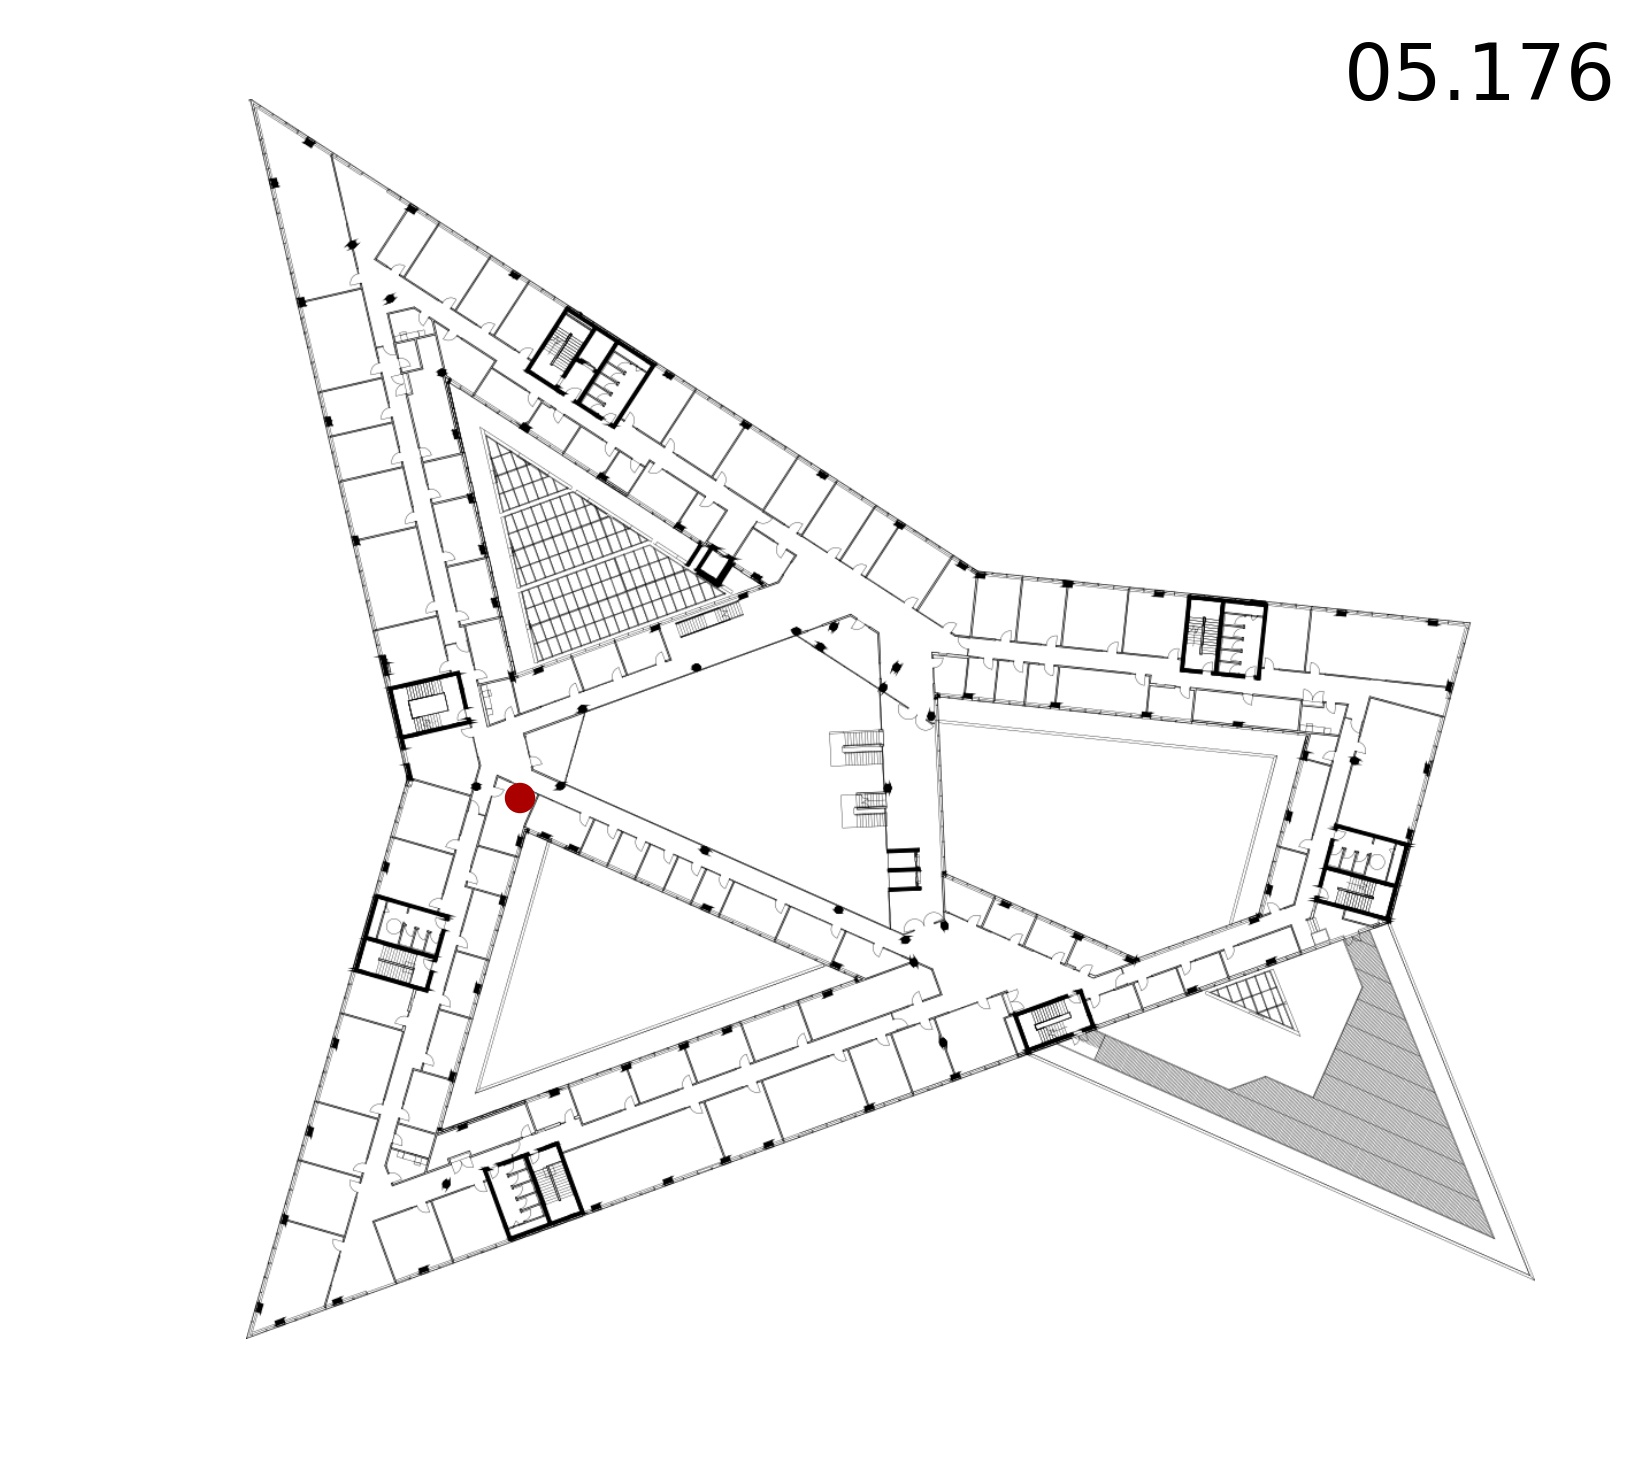
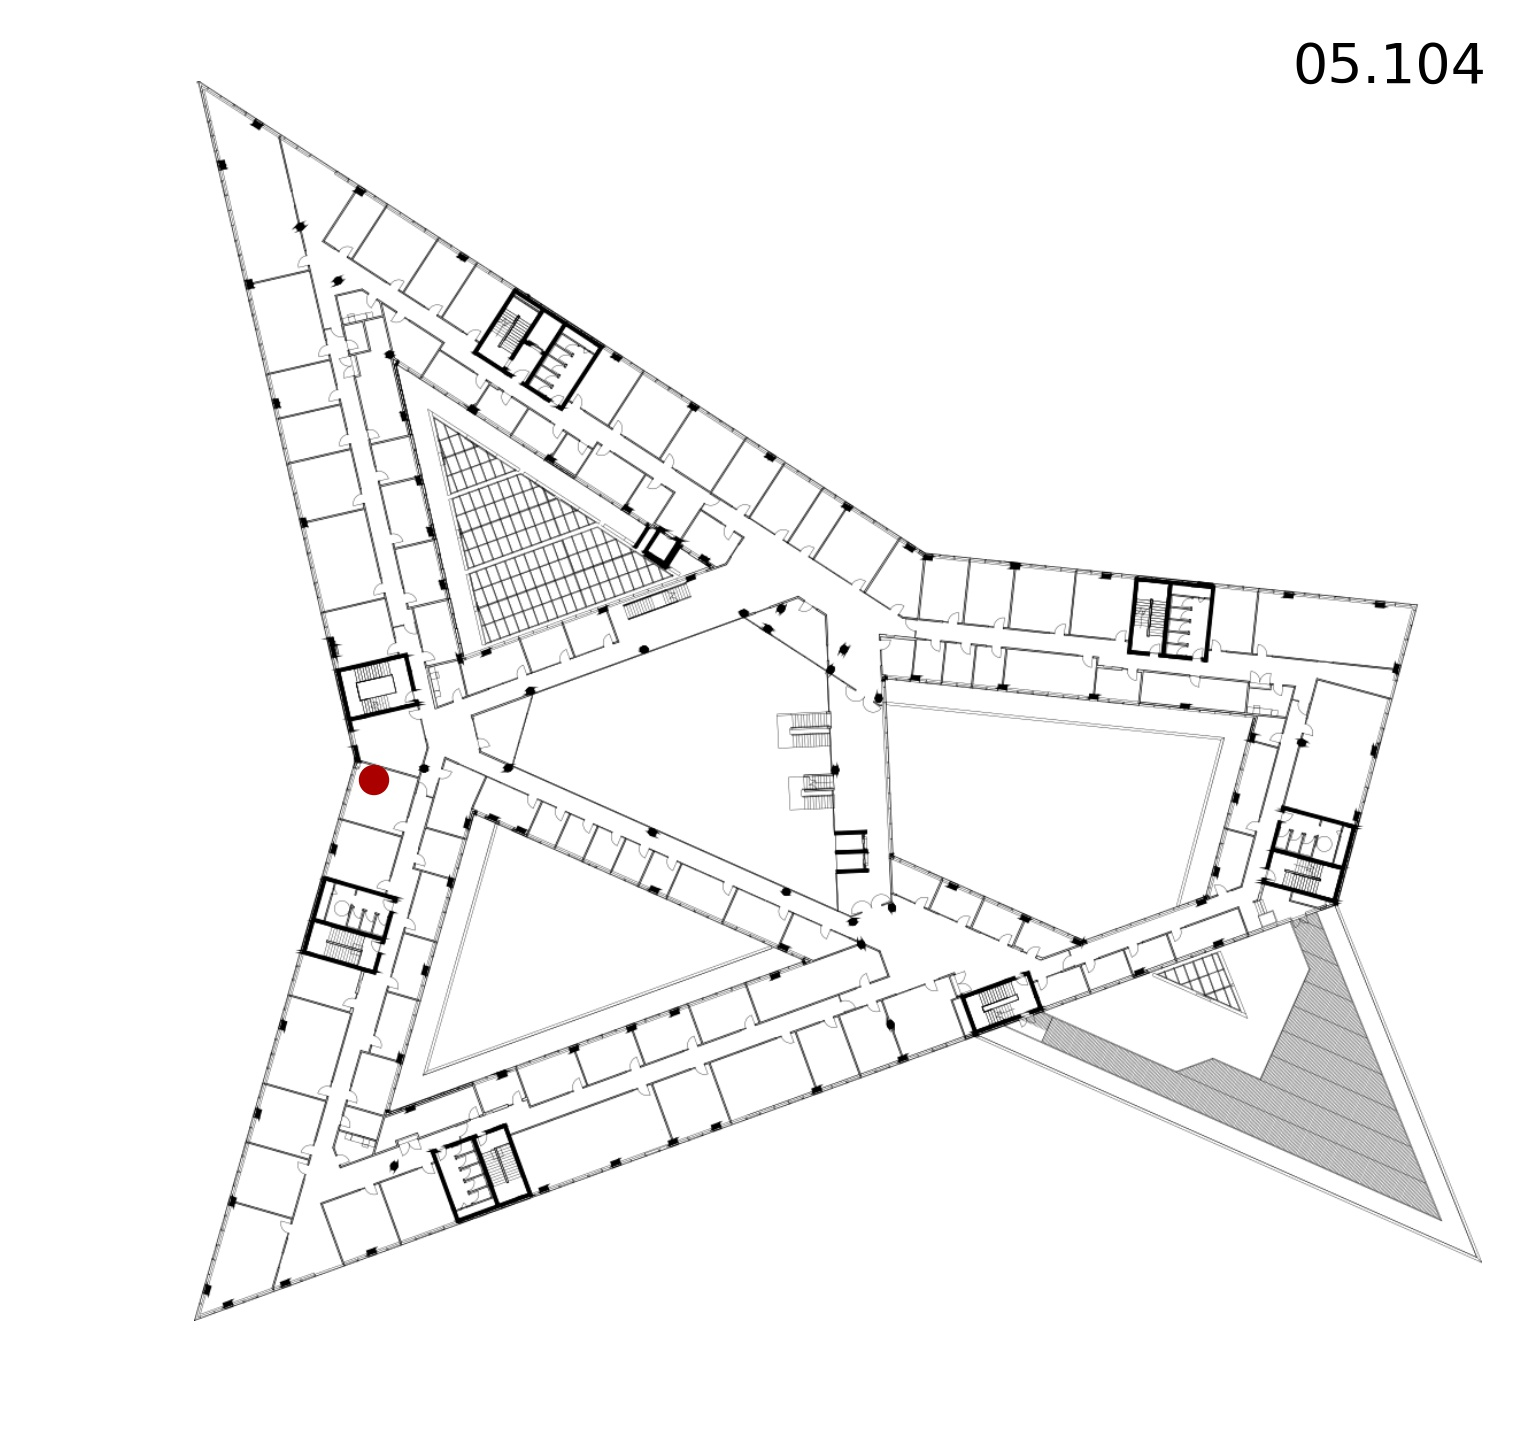
Adding features
Concatenating toilet position and adding numbering to extras.

Changed region(s): [[0.1234, 0.0612, 0.9875, 0.9186], [0.8024, 0.0306, 0.9875, 0.0919]]

diff --git a/code/navnav_funcs.py b/code/navnav_funcs.py
@@ -19,7 +19,7 @@ import scipy.io
 from PIL import Image
 
 
-def extra(string,chosen_floor,navnav_coors):
+def navnav_extra(string,chosen_floor,navnav_coors,save_txt=0):
     
     # load string txt and plot the selected floor
 
@@ -27,7 +27,7 @@ def extra(string,chosen_floor,navnav_coors):
 
     string_on_chosen_floor = []   
     
-    print string_room
+    #print string_room
     
     for ghj in xrange(len(string_room)):
         if string_room[ghj][1] == str(chosen_floor):
@@ -51,36 +51,62 @@ def extra(string,chosen_floor,navnav_coors):
                 print 'Found it ! '
                 x_coor_room[vjk] = x_coor_room[vjk]+30
                 y_coor_room[vjk] = y_coor_room[vjk]-25
+                string_on_chosen_floor[vjk] = '058'
                 
             elif chosen_floor == 5 and string_on_chosen_floor[vjk] == '191':
                 print 'Found it ! '
                 x_coor_room[vjk] = x_coor_room[vjk]
                 y_coor_room[vjk] = y_coor_room[vjk]-50
+                string_on_chosen_floor[vjk] = '053'
+    # getting an error here. It says that the data contains nans. 
+    # Does not make sense
+    
+    for fdc in xrange(len(x_coor_room)):
+        x_coor_room[fdc] = int(float(x_coor_room[fdc]))
+        y_coor_room[fdc] = int(float(y_coor_room[fdc]))
+    if save_txt ==1:
+        # Save these improved coordinates
+        np.savetxt(str(chosen_floor)+'_'+string+'_coor_X.txt',x_coor_room,fmt ='%0.5f',delimiter=',')
+        np.savetxt(str(chosen_floor)+'_'+string+'_coor_Y.txt',y_coor_room,fmt ='%0.5f',delimiter=',')
     
     
-
     print 'Now plotting '+str(string)+' on floor ' + str(chosen_floor)      
 
     # Plotting dot in searched room    
-    plt.figure()    
-    plt.scatter(x_coor_room,y_coor_room,color="#AA0000", vmin = 0, vmax = 250)    
+    fig, ax = plt.subplots()
+    
+    ax.scatter(x_coor_room,y_coor_room,color="#AA0000", vmin = 0, vmax = 250)
+    man_leg_start = 980
+    for fxc in xrange(len(x_coor_room)):    
+        
+        ax.annotate(str(fxc+1), (x_coor_room[fxc]-7,y_coor_room[fxc]+10),color ='w',fontsize = 6)    
+        
+        # Manuel legend
+        ax.plot(man_leg_start,40+50*fxc,'o',color="#AA0000",markeredgecolor="#AA0000")
+        ax.annotate(str(fxc+1), (man_leg_start-6.5,40+50*fxc+10),color ='w',fontsize = 6)
+        # Room number
+        ax.annotate(string_on_chosen_floor[fxc], (man_leg_start+25,40+50*fxc+10),color ='k',fontsize = 6)
+        
+
+    #ax.legend(scatterpoints=1) 
+     
  
     # Annotating room   
     if string == 'kitchen':
         # The following lines are needed for the danish letter ø
         reload(sys)
         sys.setdefaultencoding('UTF-8')
-        plt.annotate('0'+str(chosen_floor)+', '+'køkken', (960,0))       
+        ax.annotate('0'+str(chosen_floor)+'.'+'køkken', (960,0))       
     else:
-        plt.annotate('0'+str(chosen_floor)+', '+str(string), (960,0))    
+        ax.annotate('0'+str(chosen_floor)+'.'+str(string), (960,0))    
         
-    plt.axis('off')
+    ax.axis('off')
     
     # Loading map background
     maps = Image.open('../maps/final_png/'+str(chosen_floor)+'_png.png')
         
     # Plotting map background
-    plt.imshow(maps,cmap='gray',vmin=0,vmax=255)
+    ax.imshow(maps,cmap='gray',vmin=0,vmax=255)
     
 
     # Saving final map

diff --git a/code/main.py b/code/main.py
@@ -62,7 +62,7 @@ if __name__ == '__main__':
         
         for xkg in ['kitchen','print','toilet']:
             for cnv in xrange(8):
-                extra(xkg,cnv,navnav_coors)
+                print navnav_extra(xkg,cnv,navnav_coors,0)
  
      
     #### Create maps for webpage
